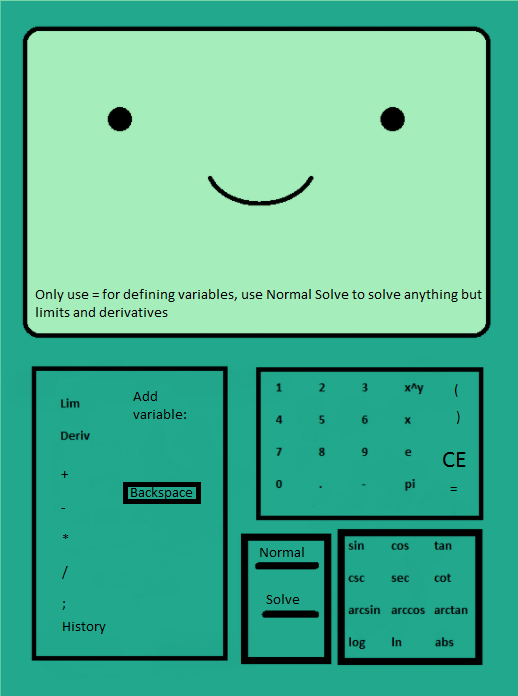
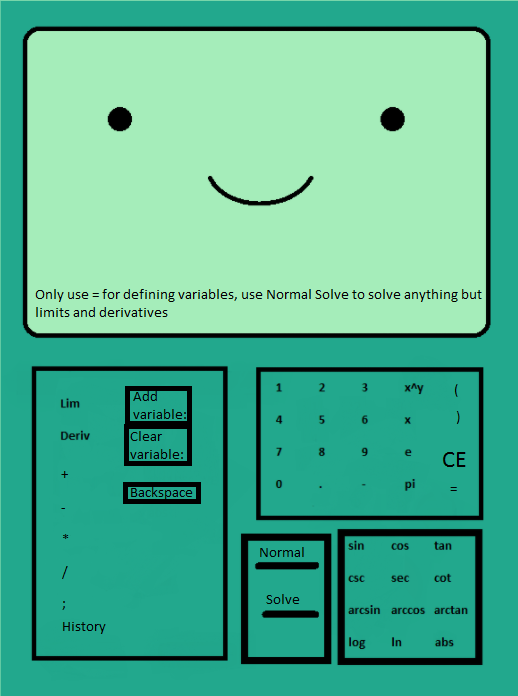
Fixed variables

Changed region(s): [[0.2162, 0.5431, 0.3707, 0.694]]

diff --git a/src/input/BenInputScreen.java b/src/input/BenInputScreen.java
@@ -66,8 +66,8 @@ public class BenInputScreen extends AbidCalculatorScreen
 	public static Button absButton;
 	public static Button backspaceButton;
 	public static BenSound soundControl;
+	public static Button clearVarButton;
 	public static boolean inputValid;
-	public static ArrayList<BenVariableStorage> variables = new ArrayList<BenVariableStorage>();
 	
 	public BenInputScreen(int width, int height) 
 	{
@@ -298,7 +298,7 @@ public class BenInputScreen extends AbidCalculatorScreen
 			@Override
 			public void act() 
 			{
-				inputArea.setText(inputArea.getText() + "π");
+				inputArea.setText(inputArea.getText() + "pi");
 				buttonPress();
 			}
 		});
@@ -468,8 +468,20 @@ public class BenInputScreen extends AbidCalculatorScreen
 			@Override
 			public void act() 
 			{
-				String variableName = variableArea.getText().substring(0, 1);
-				variables.add(0, new BenVariableStorage(variableName, 0, false));
+				String variableName;
+				if (variableArea.getText().length() > 1)
+				{
+					variableName = variableArea.getText().substring(0, 2);
+				}
+				else if (variableArea.getText().length() == 1)
+				{
+					variableName = variableArea.getText().substring(0, 1);
+				}
+				else
+				{
+					return;
+				}
+				BenVariableStorage.variableArray.add(0, new BenVariableStorage(variableName, 0, false));
 				inputArea.setText(inputArea.getText() + variableName);
 				variableArea.setText("");
 				buttonPress();
@@ -486,7 +498,22 @@ public class BenInputScreen extends AbidCalculatorScreen
 				}
 				buttonPress();
 			}
-		});		
+		});
+		clearVarButton = new Button(125, 438, 54, 30, "", new Action() {
+			
+			@Override
+			public void act() 
+			{
+				
+				String varName = variableArea.getText();
+				if(BenVariableStorage.isSet(varName)) 
+				{
+					BenVariableStorage.removeVariable(varName);
+				}	
+				variableArea.setText("");
+				buttonPress();
+			}
+		});
 		
 		
 		viewObjects.add(background);
@@ -536,6 +563,7 @@ public class BenInputScreen extends AbidCalculatorScreen
 		viewObjects.add(backspaceButton);
 		viewObjects.add(normalSolveButton);
 		viewObjects.add(addVariableButton);
+		viewObjects.add(clearVarButton);
 	}
 
 	public void buttonPress()
